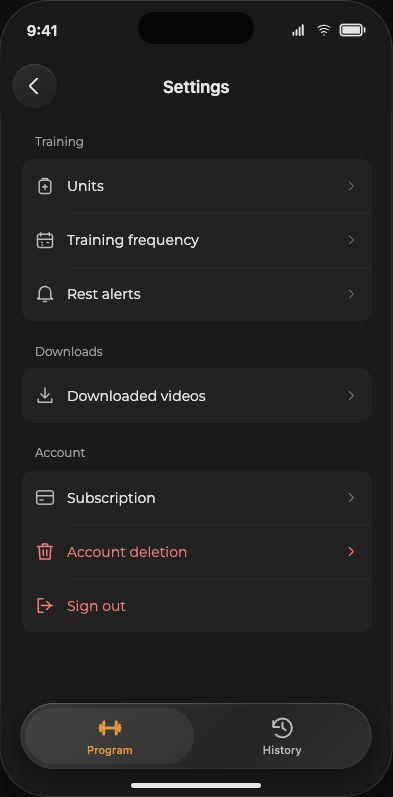
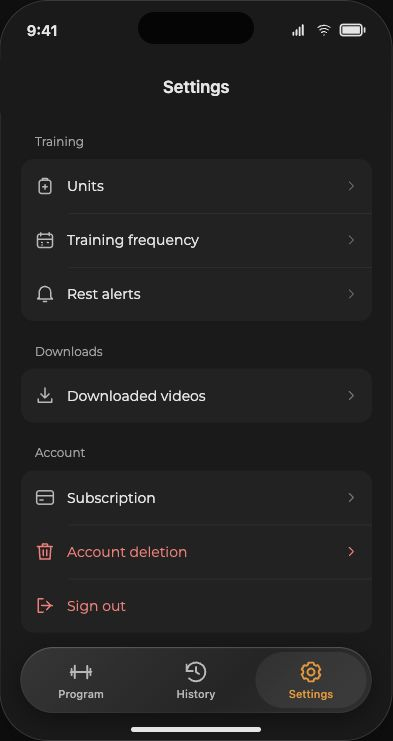
Make Settings an independent third menu tab

diff --git a/OneSet/App/MenuPrototype/index.html b/OneSet/App/MenuPrototype/index.html
@@ -1,5 +1,5 @@
 <!doctype html>
-<!-- THROWAWAY: Does Program + History stay understandable on nested screens, and
+<!-- THROWAWAY: Do Program + History + Settings stay understandable on nested screens, and
      which Settings hierarchy fits OneSet? Three variants on the Program host,
      selected with ?variant=A|B|C. Run: python3 OneSet/App/MenuPrototype/serve.py
      Browser materials approximate iOS; production must use native SwiftUI controls.
@@ -30,7 +30,7 @@ button{border:0}a{color:var(--ink);text-underline-offset:4px}p,h1,h2,h3{margin:0
 .weeks{display:flex;gap:8px;overflow-x:auto;margin-top:16px;padding:1px 1px 5px;scrollbar-width:none}.weeks button{min-width:48px;height:48px;border-radius:12px;background:var(--surface);border:1px solid var(--line)}.weeks button[aria-pressed=true]{background:var(--accent);border-color:var(--accent);color:#141414}.week-label{margin-top:10px;font-size:14px}
 .workout-card{padding:16px;display:flex;gap:12px;align-items:flex-start;width:100%;text-align:left;background:var(--surface);border:1px solid var(--line);border-radius:12px;margin-top:12px}.day-tag{min-width:48px;font-size:14px;color:var(--muted)}.workout-info strong{font-size:16px;display:block}.workout-info .status-label{margin-top:9px;display:flex;align-items:center;gap:6px;font-size:14px}.status-label .icon{width:17px;height:17px}.workout-info .caption{margin-top:6px}.workout-info .open-label{display:flex;align-items:center;gap:8px;min-height:44px;margin-top:8px;font-size:14px}.open-label .icon{width:20px}
 .upload{margin-top:20px;padding:14px 0;border-top:1px solid var(--line);border-bottom:1px solid var(--line);font-size:13px;color:var(--muted)}.upload button{background:none;color:var(--ink);display:block;padding:5px 0;text-decoration:underline;text-underline-offset:4px}
-.bottom-shade{position:absolute;bottom:0;left:0;right:0;height:108px;pointer-events:none;background:linear-gradient(transparent,#1a1a1ac9 65%,#1a1a1a);z-index:3}.tabbar{position:absolute;z-index:4;bottom:27px;left:20px;right:20px;height:66px;padding:5px;display:grid;grid-template-columns:1fr 1fr;gap:4px;border-radius:35px;background:linear-gradient(135deg,#414141b8,#282828bf 60%,#393939b0);backdrop-filter:blur(24px) saturate(1.5);-webkit-backdrop-filter:blur(24px) saturate(1.5);box-shadow:inset 0 1px 1px #ffffff35,inset 0 -1px 1px #ffffff0b,0 7px 25px #0006}
+.bottom-shade{position:absolute;bottom:0;left:0;right:0;height:108px;pointer-events:none;background:linear-gradient(transparent,#1a1a1ac9 65%,#1a1a1a);z-index:3}.tabbar{position:absolute;z-index:4;bottom:27px;left:20px;right:20px;height:66px;padding:5px;display:grid;grid-template-columns:repeat(3,1fr);gap:4px;border-radius:35px;background:linear-gradient(135deg,#414141b8,#282828bf 60%,#393939b0);backdrop-filter:blur(24px) saturate(1.5);-webkit-backdrop-filter:blur(24px) saturate(1.5);box-shadow:inset 0 1px 1px #ffffff35,inset 0 -1px 1px #ffffff0b,0 7px 25px #0006}
 .tabbar button{background:none;min-height:54px;border-radius:30px;display:flex;flex-direction:column;align-items:center;justify-content:center;gap:3px;font:500 11px/1.15 var(--system);color:#b8b8b8}.tabbar .icon{width:25px;height:25px;stroke-width:1.9}.tabbar button[aria-selected=true]{background:#ffffff10;color:#ee941e}.tabbar button[aria-selected=true] .program-symbol{stroke-width:2.7}.home-indicator{position:absolute;z-index:6;bottom:8px;width:130px;height:5px;left:50%;transform:translateX(-50%);border-radius:3px;background:#e5e5e5}
 .settings-content{padding-top:20px}.settings-title{margin-bottom:24px}.settings-group{margin-top:22px}.settings-group:first-child{margin-top:0}.group-label{color:var(--muted);font:400 12px/1.4 Montserrat,var(--system);padding:0 14px;margin-bottom:9px}.settings-list{background:var(--surface);border-radius:13px;overflow:hidden}.settings-row{width:100%;display:flex;align-items:center;gap:12px;padding:0 14px;min-height:54px;text-align:left;background:transparent;color:var(--ink);font-size:14px;position:relative}.settings-row+.settings-row:before{content:'';height:1px;background:#ffffff0d;position:absolute;top:0;left:48px;right:0}.settings-row .row-label{flex:1}.settings-row .icon{width:20px;height:20px;color:#b9b9b9}.settings-row .chevron{width:14px;height:14px;color:#777}.settings-row.destructive{color:#ff7777}.settings-row.destructive>.icon{color:#ff7777}.settings-row:hover,.category-row:hover{background:#ffffff05}
 .flat-settings{padding:4px 20px 24px}.flat-settings .settings-row{padding:0;min-height:66px;font-size:15px;border-bottom:1px solid var(--line)}.flat-settings .settings-row:before{display:none}.flat-settings .settings-row .icon:first-child{width:22px;height:22px}.flat-settings .destructive{margin-top:12px}
@@ -75,7 +75,7 @@ button{border:0}a{color:var(--ink);text-underline-offset:4px}p,h1,h2,h3{margin:0
  <aside class="brief">
   <div class="brand">ONESET</div>
   <h1>One menu.<br>Three ways to arrange it.</h1>
-  <p class="intro">Try the two-tab navigation on real program content. Open an exercise, visit History, then come back. Your place stays put.</p>
+  <p class="intro">Try Program, History, and Settings as three independent tabs. Open an exercise, visit History, then come back. Your place stays put.</p>
   <p class="recommend" id="variant-description"></p>
   <div class="scene-tools">
    <h2>Jump to a screen</h2>
@@ -121,6 +121,7 @@ const params = new URLSearchParams(location.search);
 let variant = variants[params.get('variant')] ? params.get('variant') : 'A';
 let selectedTab = 'program';
 let programPath = [];
+let settingsPath = [];
 let selectedWeek = 1;
 let workout = 'A';
 let selectedExercise = 1;
@@ -129,13 +130,15 @@ let pendingUpload = params.get('upload') === 'pending';
 let dialog = '';
 const scrollPositions = new Map();
 const svg = (name,classes='') => `<svg class="icon ${classes}" aria-hidden="true"><use href="#${name}"/></svg>`;
-const pathName = () => selectedTab === 'history' ? 'history' : (programPath.at(-1) || 'program');
-function captureScroll(){ const el=document.querySelector('#screen-scroll');if(el)scrollPositions.set(`${selectedTab}/${programPath.join('/')}`,el.scrollTop); }
+const activePath = () => selectedTab === 'settings' ? settingsPath : selectedTab === 'program' ? programPath : [];
+const scrollKey = () => `${selectedTab}/${activePath().join('/')}`;
+const pathName = () => activePath().at(-1) || selectedTab;
+function captureScroll(){ const el=document.querySelector('#screen-scroll');if(el)scrollPositions.set(scrollKey(),el.scrollTop); }
 function titleFor(page){return ({program:'Program',settings:'Settings',workout:'Workout preview',exercise:'Exercise',history:'History',training:'Training',account:'Account'})[page] || destinations[page]?.title;}
-function push(page){captureScroll();programPath.push(page);selectedTab='program';dialog='';render();}
-function pop(){captureScroll();programPath.pop();dialog='';render();}
+function push(page){captureScroll();activePath().push(page);dialog='';render();}
+function pop(){captureScroll();activePath().pop();dialog='';render();}
 function switchTab(tab){captureScroll();selectedTab=tab;dialog='';render();}
-function jump(scene){captureScroll();selectedTab=scene==='history'?'history':'program';programPath=({program:[],settings:['settings'],workout:['workout'],exercise:['workout','exercise'],history:[]})[scene];dialog='';render();}
+function jump(scene){captureScroll();selectedTab=['history','settings'].includes(scene)?scene:'program';if(selectedTab==='program')programPath=({program:[],workout:['workout'],exercise:['workout','exercise']})[scene];if(scene==='settings')settingsPath=[];dialog='';render();}
 function settingsRow(key){
  const out=key==='signout';const d=out?{title:'Sign out',icon:'out'}:destinations[key];
  return `<button class="settings-row ${key==='deletion'||out?'destructive':''}" data-${out?'signout':'route'}="${key}">${svg(d.icon)}<span class="row-label">${d.title}</span>${out?'':svg('chevron','chevron')}</button>`;
@@ -175,10 +178,10 @@ function render(){
  document.querySelector('#variant-description').textContent=variants[variant].description;
  document.querySelector('#upload-fixture').value=pendingUpload?'pending':'complete';
  document.querySelectorAll('[data-scene]').forEach(el=>el.setAttribute('aria-pressed',el.dataset.scene===page));
- document.querySelector('#inspector').innerHTML=[['Layout',`${variant} · ${variants[variant].name}`],['Active tab',selectedTab==='program'?'Program':'History'],['Program path',['Program',...programPath.map(titleFor)].join(' → ')],['Week',selectedWeek],['Workout',`Workout ${workout}`],['Exercise',exercises[workout][selectedExercise][0]],['Exercise panel',performanceSection],['Setup upload',pendingUpload?'Pending · sample state':'Complete · sample state'],['Tab bar','Visible · expanded'],['Dialog',dialog||'None'],['Data','In memory · no account or API']].map(([k,v])=>`<dt>${k}</dt><dd>${v}</dd>`).join('');
+ document.querySelector('#inspector').innerHTML=[['Layout',`${variant} · ${variants[variant].name}`],['Active tab',titleFor(selectedTab)],['Program path',['Program',...programPath.map(titleFor)].join(' → ')],['Settings path',['Settings',...settingsPath.map(titleFor)].join(' → ')],['Week',selectedWeek],['Workout',`Workout ${workout}`],['Exercise',exercises[workout][selectedExercise][0]],['Exercise panel',performanceSection],['Setup upload',pendingUpload?'Pending · sample state':'Complete · sample state'],['Tab bar','Visible · expanded'],['Dialog',dialog||'None'],['Data','In memory · no account or API']].map(([k,v])=>`<dt>${k}</dt><dd>${v}</dd>`).join('');
  document.querySelector('#mobile-inspector').innerHTML=document.querySelector('#inspector').innerHTML;
- document.querySelector('#app').innerHTML=`<header class="topbar"><div class="nav-side">${selectedTab==='program'&&programPath.length?`<button class="glass-button back-button" data-back aria-label="Back to ${titleFor(programPath.at(-2)||'program')}">${svg('back')}</button>`:''}</div><div class="nav-title">${titleFor(page)}</div><div class="nav-side right">${page==='program'?`<button class="glass-button" data-route="settings" aria-label="Open Settings">${svg('gear')}</button>`:''}</div></header><div class="scroll ${page==='workout'?'has-start':''}" id="screen-scroll">${screen(page)}</div>${page==='workout'?'<div class="start-workout"><button class="primary" data-start>Start workout</button></div>':''}<div class="bottom-shade"></div><nav class="tabbar" aria-label="Main navigation" role="tablist"><button role="tab" data-tab="program" aria-selected="${selectedTab==='program'}">${svg('program','program-symbol')}<span>Program</span></button><button role="tab" data-tab="history" aria-selected="${selectedTab==='history'}">${svg('history')}<span>History</span></button></nav>${dialog?`<div class="dialog-cover"><section class="dialog" role="dialog" aria-modal="true" aria-labelledby="dialog-title"><h2 id="dialog-title">${dialog==='signout'?'Sign out preview':'Workout recording'}</h2><p>${dialog==='signout'?(pendingUpload?'In the app, signing out now would ask whether to discard setup waiting to upload. This prototype keeps your account untouched.':'This preview does not sign you out of your account.'):'Recording is outside this menu prototype. No workout has started.'}</p><button data-close>Return to preview</button></section></div>`:''}`;
- document.querySelector('#screen-scroll').scrollTop=scrollPositions.get(`${selectedTab}/${programPath.join('/')}`)||0;
+ document.querySelector('#app').innerHTML=`<header class="topbar"><div class="nav-side">${activePath().length?`<button class="glass-button back-button" data-back aria-label="Back to ${titleFor(activePath().at(-2)||selectedTab)}">${svg('back')}</button>`:''}</div><div class="nav-title">${titleFor(page)}</div><div class="nav-side right"></div></header><div class="scroll ${page==='workout'?'has-start':''}" id="screen-scroll">${screen(page)}</div>${page==='workout'?'<div class="start-workout"><button class="primary" data-start>Start workout</button></div>':''}<div class="bottom-shade"></div><nav class="tabbar" aria-label="Main navigation" role="tablist"><button role="tab" data-tab="program" aria-selected="${selectedTab==='program'}">${svg('program','program-symbol')}<span>Program</span></button><button role="tab" data-tab="history" aria-selected="${selectedTab==='history'}">${svg('history')}<span>History</span></button><button role="tab" data-tab="settings" aria-selected="${selectedTab==='settings'}">${svg('gear')}<span>Settings</span></button></nav>${dialog?`<div class="dialog-cover"><section class="dialog" role="dialog" aria-modal="true" aria-labelledby="dialog-title"><h2 id="dialog-title">${dialog==='signout'?'Sign out preview':'Workout recording'}</h2><p>${dialog==='signout'?(pendingUpload?'In the app, signing out now would ask whether to discard setup waiting to upload. This prototype keeps your account untouched.':'This preview does not sign you out of your account.'):'Recording is outside this menu prototype. No workout has started.'}</p><button data-close>Return to preview</button></section></div>`:''}`;
+ document.querySelector('#screen-scroll').scrollTop=scrollPositions.get(scrollKey())||0;
  bind();
  if(dialog)document.querySelector('[data-close]').focus();
 }
@@ -196,13 +199,13 @@ function bind(){
  document.querySelector('[data-start]')?.addEventListener('click',()=>{captureScroll();dialog='start';render();});
  document.querySelector('[data-close]')?.addEventListener('click',()=>{dialog='';render();});
 }
-function cycle(delta){captureScroll();const keys=Object.keys(variants);variant=keys[(keys.indexOf(variant)+delta+keys.length)%keys.length];selectedTab='program';programPath=['settings'];dialog='';render();}
+function cycle(delta){captureScroll();const keys=Object.keys(variants);variant=keys[(keys.indexOf(variant)+delta+keys.length)%keys.length];selectedTab='settings';settingsPath=[];dialog='';render();}
 document.querySelector('#previous').addEventListener('click',()=>cycle(-1));document.querySelector('#next').addEventListener('click',()=>cycle(1));
 document.querySelectorAll('[data-scene]').forEach(el=>el.addEventListener('click',()=>jump(el.dataset.scene)));
 document.querySelector('#upload-fixture').addEventListener('change',e=>{captureScroll();pendingUpload=e.target.value==='pending';render();});
 document.addEventListener('keydown',e=>{if(e.target.closest('input,textarea,select,[contenteditable]')||dialog)return;if(e.key==='ArrowLeft'||e.key==='ArrowRight'){e.preventDefault();cycle(e.key==='ArrowLeft'?-1:1);}});
 const initialPage=params.get('page');
-if(['program','settings','workout','exercise','history'].includes(initialPage)){selectedTab=initialPage==='history'?'history':'program';programPath=({program:[],settings:['settings'],workout:['workout'],exercise:['workout','exercise'],history:[]})[initialPage];}
+if(['program','settings','workout','exercise','history'].includes(initialPage)){selectedTab=['history','settings'].includes(initialPage)?initialPage:'program';if(selectedTab==='program')programPath=({program:[],workout:['workout'],exercise:['workout','exercise']})[initialPage];}
 render();
 </script>
 </body>

diff --git a/OneSet/App/MenuPrototype/README.md b/OneSet/App/MenuPrototype/README.md
@@ -2,7 +2,7 @@
 
 Throwaway browser prototype on `prototype/menu-navigation`. Production app files are unchanged.
 
-Question: does Program + History remain clear through workout and exercise browsing, and which Settings hierarchy is easiest to use?
+Question: do Program + History + Settings remain clear through workout and exercise browsing, and which Settings hierarchy is easiest to use?
 
 Run from the repository root:
 
@@ -17,16 +17,18 @@ Open [the preview](http://127.0.0.1:8767/OneSet/App/MenuPrototype/?variant=A).
 - `?variant=C`: nested Training and Account categories. These are an exploratory alternative with additional navigation depth, not an approved route change.
 - Add `&page=settings`, `&page=workout`, `&page=exercise`, or `&page=history` to open those screens directly.
 
-The floating switcher and left/right arrow keys cycle layouts and open Settings for comparison. The workbench shortcuts return to the other screens. The phone's bottom tabs preserve the Program navigation stack, scroll position, selected training week, and exercise performance panel during use. All unfinished Settings destinations are explanatory placeholders. Setup-upload state, retry, sign out, and Start workout are local demonstrations with no API calls or durable effects.
+The floating switcher and left/right arrow keys cycle layouts and open Settings for comparison. The workbench shortcuts return to the other screens. The three bottom tabs open Program, History, and Settings independently. Program opens the current program screen; Settings has its own navigation stack and is not accessed through Program. Switching tabs preserves each tab's stack and scroll position, including the selected training week and exercise performance panel. All unfinished Settings destinations are explanatory placeholders. Setup-upload state, retry, sign out, and Start workout are local demonstrations with no API calls or durable effects.
 
 Real catalog fixtures come from `worker/catalog/programs/10-machine-full-body.yaml`; typography, colors, and banner images reuse the app's assets. Sample preferences are kg and three training days per week. Performance is empty, with no invented personal records.
 
 Browser blur and vector symbols approximate native iOS controls. They are not evidence of the final Liquid Glass rendering; the production implementation must use standard SwiftUI navigation and tab controls. The preview is restricted to local hosts and is not part of production navigation.
 
-Verdict: the user selected **Variant A — grouped Settings sections** after reviewing the prototype. Training contains Units, Training frequency, and Rest alerts; Downloads contains Downloaded videos; Account contains Subscription, Account deletion, and Sign out. Headings group directly reachable rows without adding navigation depth. Variants B and C remain archived alternatives and are not selected for implementation. The selection settles the Settings hierarchy within the previously agreed Program + History navigation.
+Verdict: the user selected **Variant A — grouped Settings sections** after reviewing the prototype. Training contains Units, Training frequency, and Rest alerts; Downloads contains Downloaded videos; Account contains Subscription, Account deletion, and Sign out. Headings group directly reachable rows without adding navigation depth. Variants B and C remain archived alternatives and are not selected for implementation. The selection settles the Settings hierarchy. The subsequent navigation clarification makes Settings an independent third tab alongside Program and History; the grouped Variant A content is unchanged.
 
 [Issue #31](https://github.com/dimitarradulov/one-set/issues/31) records the implementation spec. Preserve this throwaway prototype on its branch; implement the selected behavior using native SwiftUI controls rather than promoting the browser demo into the app.
 
 Browser previews: [A](screenshots/settings-a.png), [B](screenshots/settings-b.png), [C](screenshots/settings-c.png).
 
 Manually exercised in Chrome: Program → workout → exercise; global History and return with the same exercise-performance selection; back navigation; all six Settings placeholders; nested Training and Account; stub sign out and setup retry; variant arrows and keyboard cycling. Inspected desktop and 393 × 852 browser layouts. Browser console reported no errors or warnings during this pass. No native app build or simulator validation was run because this branch changes only the throwaway browser prototype.
+
+Three-tab clarification verification: independently switched Program → exercise → Settings → Units → Program → History → Settings and retained both the exercise performance panel and Settings placeholder. Checked all six placeholders with Settings selected, refreshed the three layout screenshots, and inspected the 393 × 852 browser layout. No browser console errors or warnings were observed.
